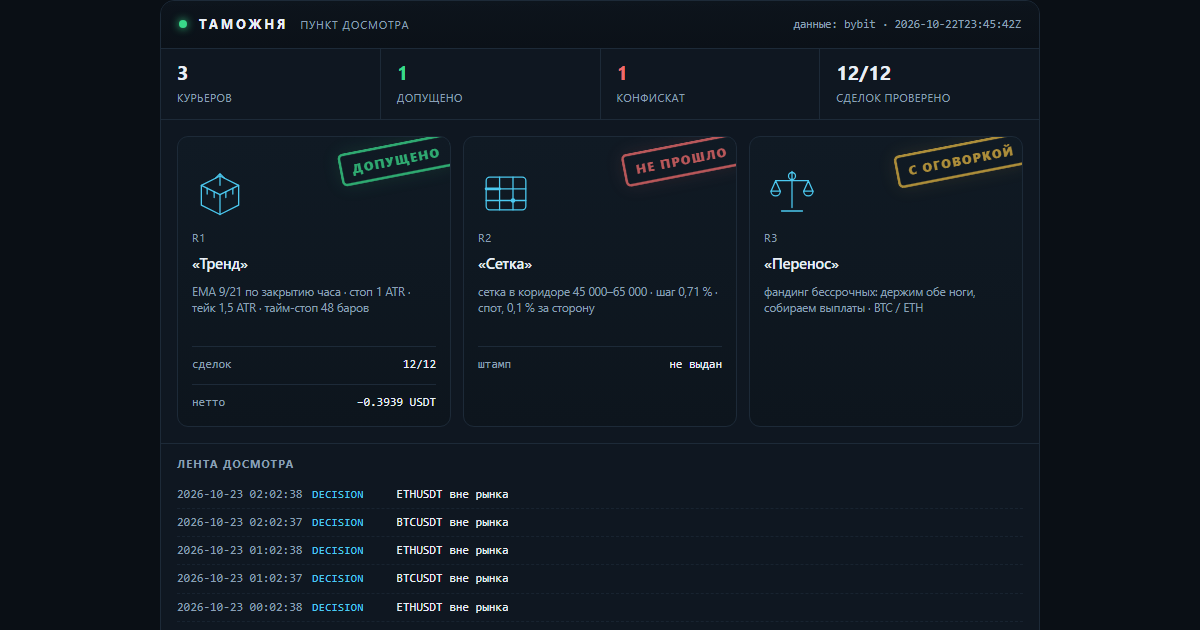
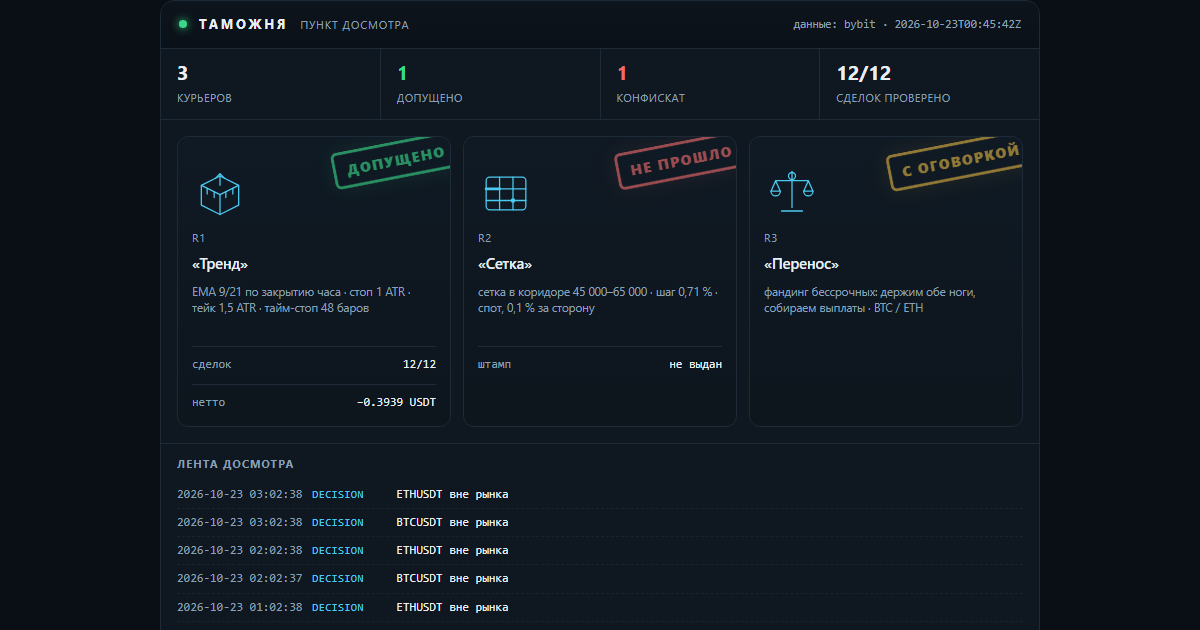
lab: таможня — свежие числа досмотра

diff --git a/docs/customs.html b/docs/customs.html
@@ -16,7 +16,7 @@
   <h1><a href="index.html">Gramwright Lab</a></h1>
   <p>Журнал проверки торговых гипотез: что проверяли, что вышло по факту, сколько съели издержки. Числа берутся из журнала стенда. Не инвестиционная рекомендация.</p>
 </header>
-<h1>Таможня</h1><p class="intro">Пункт досмотра заявленных результатов. Стратегии приезжают с грузом обещаний, и каждая проходит проверку по публичным данным биржи: цены существуют, комиссии по тарифу, нетто сходится. Что прошло — получает штамп. Что не прошло — в конфискат, с причиной. Штамп означает «записи подлинные», а не «стратегия прибыльна».</p><p><img src="img/customs.png" alt="Терминал досмотра: три курьера, штампы, лента событий" style="width:100%;height:auto;border:1px solid var(--line);border-radius:10px"></p><p class="c-note">Сверху — тот же терминал, что собирается из журналов: счётчики, эмблемы курьеров, штампы и лента последних событий. Ниже — то же самое текстом, чтобы читалось с телефона и индексировалось поиском.</p><article><h2>R1 «Тренд» <span class="verdict">— <span class="c-ok">допущено</span></span></h2><p><strong>Правило:</strong> EMA 9/21 по закрытию часа · стоп 1 ATR · тейк 1,5 ATR · тайм-стоп 48 баров</p><p><strong>Декларация:</strong> Заявлено до прогона: держать 30 сделок, лимит нотионала 10 % от счёта, стоп дня −1 %. Прибыль не заявлялась — это важно: курьер не обещал доход.</p><p><strong>Проверено по публичным свечам, без ключей:</strong> 12 из 12 сделок. Сумма нетто −0.3939 USDT.</p><ul class="c-chk"><li class="y">BTCUSDT: нетто −0.8746 USDT · комиссии 0.0901 · проверено · с поправкой</li><li class="y">BTCUSDT: нетто −0.5441 USDT · комиссии 0.0896 · проверено</li><li class="y">ETHUSDT: нетто −0.2253 USDT · комиссии 0.0266 · проверено</li><li class="y">ETHUSDT: нетто −0.1513 USDT · комиссии 0.0265 · проверено</li><li class="y">ETHUSDT: нетто +0.1984 USDT · комиссии 0.0262 · проверено</li><li class="y">ETHUSDT: нетто +0.1617 USDT · комиссии 0.0260 · проверено</li><li class="y">ETHUSDT: нетто +0.2645 USDT · комиссии 0.0263 · проверено</li><li class="y">BTCUSDT: нетто +0.6246 USDT · комиссии 0.0897 · проверено</li><li class="y">BTCUSDT: нетто −0.5881 USDT · комиссии 0.0910 · проверено</li><li class="y">ETHUSDT: нетто −0.2403 USDT · комиссии 0.0270 · проверено</li><li class="y">BTCUSDT: нетто +0.6908 USDT · комиссии 0.0908 · проверено</li><li class="y">ETHUSDT: нетто +0.2898 USDT · комиссии 0.0267 · проверено</li></ul><p class="tags">журнал sha256 0baa38762986cf78… · проверяльщик verify-1</p><p class="c-note">Штамп означает: записи подлинные, а не что стратегия прибыльна. Курьер в минусе, и минус тоже стоит на штампе — иначе это была бы не проверка, а реклама.</p><p class="tags">источник: verify-report.json</p></article><article><h2>R2 «Сетка» <span class="verdict">— <span class="c-bad">не прошло</span></span></h2><p><strong>Правило:</strong> сетка в коридоре 45 000–65 000 · шаг 0,71 % · спот, 0,1 % за сторону</p><p><strong>Декларация:</strong> Заявлено: «44 % урожая уходит бирже в виде комиссий». Кроме того — перевес над простым владением монетой.</p><p><strong>Что сошлось:</strong></p><ul class="c-chk"><li class="y">сами числа пересчитаны и воспроизводятся: коридор 45–65k был активен 23 % всей истории и 28 % последних двух лет</li></ul><p><strong>Что не сошлось:</strong></p><ul class="c-chk"><li class="n">44 % не подтвердилось: при шаге 0,71 % и тарифе 0,1 % комиссия съедает 28,3 % шага. Чтобы получить 44 %, нужен шаг 0,45 % — это около 80 уровней, а не 50</li><li class="n">от урожая доля комиссий 85,5 % за всю историю и 49,6 % за последние два года — тоже не 44 %</li><li class="n">перевес над владением посчитан на тарифе 0,055 %: при нём +1,32 п. п., на розничном 0,1 % — −0,72 п. п. То есть перевес исчезает</li><li class="n">семилетний тест стартовал в сентябре 2019 при биткоине около 10 000 — ниже коридора. Он говорит, что фиксированный коридор не подходит для периода, а не что сетка отстаёт</li></ul><p class="tags">источник: lab_grid.py, пересчёт 17.10.2026</p></article><article><h2>R3 «Перенос» <span class="verdict">— <span class="c-warn">с оговоркой</span></span></h2><p><strong>Правило:</strong> фандинг бессрочных: держим обе ноги, собираем выплаты · BTC / ETH</p><p><strong>Декларация:</strong> Заявлено: около 11,9 % в год от выплат фандинга при просадке выплатной кривой меньше 2 %.</p><p><strong>Что сошлось:</strong></p><ul class="c-chk"><li class="y">выплаты взяты из публичной истории биржи, ключей не нужно: BTC — 7 190 выплат с 25.03.2020, ETH — 6 561 с 21.10.2020</li><li class="y">сумма сходится: +83,4 % и +83,2 % за 6,6 и 6,0 года — те самые ~11,9 % в год</li><li class="y">худшая просадка выплатной кривой: −1,65 % и −1,97 %</li></ul><p><strong>Что не сошлось:</strong></p><ul class="c-chk"><li class="n">оговорка 1: премию сжали — 2021 год дал +38,3 %, 2026 — +1,96 %. Прошлое не повторяется</li><li class="n">оговорка 2: вход-выход стоит около 0,31 %, капитала нужно 1,2 от нотионала, текущий базис −0,082 % против входа</li><li class="n">оговорка 3: риск площадки. История FTX в этой же таблице выглядела так же прилично</li></ul><p class="tags">источник: публичная история фандинга Bybit, замер 17.10.2026</p></article><div class="c-conf"><h3>Конфискат</h3><p><strong>«Сетка»: заявленные 44 % комиссий не подтвердились.</strong> Досмотр показал 28,3 % от шага и 85,5 % от урожая — цифра хуже заявленной по форме, но лучше по смыслу: сетку убивает не размер шага, а то, что урожай почти весь уходит в комиссии. Это и вышло в выпуск — с поправкой, а не с красивой цифрой.</p></div><p class="c-note">Пломба: <code>2026-10-22T23:45:42Z</code> · нотариус FreeTSA · Oct 22 23:45:42 2026 GMT · подпись подтверждена. Манифест скрепляет отчёт проверки, журнал сделок и декларации курьеров: подменишь любую цифру — пломба перестанет сходиться.</p><p class="c-note">Досмотр идёт по публичным минутным свечам и публичной истории фандинга — ключей у проверяющего нет, и он может повторить проверку сам.</p><p class="c-note">Контент образовательный, не является инвестиционной рекомендацией. Торговля связана с риском потери капитала.</p>
+<h1>Таможня</h1><p class="intro">Пункт досмотра заявленных результатов. Стратегии приезжают с грузом обещаний, и каждая проходит проверку по публичным данным биржи: цены существуют, комиссии по тарифу, нетто сходится. Что прошло — получает штамп. Что не прошло — в конфискат, с причиной. Штамп означает «записи подлинные», а не «стратегия прибыльна».</p><p><img src="img/customs.png" alt="Терминал досмотра: три курьера, штампы, лента событий" style="width:100%;height:auto;border:1px solid var(--line);border-radius:10px"></p><p class="c-note">Сверху — тот же терминал, что собирается из журналов: счётчики, эмблемы курьеров, штампы и лента последних событий. Ниже — то же самое текстом, чтобы читалось с телефона и индексировалось поиском.</p><article><h2>R1 «Тренд» <span class="verdict">— <span class="c-ok">допущено</span></span></h2><p><strong>Правило:</strong> EMA 9/21 по закрытию часа · стоп 1 ATR · тейк 1,5 ATR · тайм-стоп 48 баров</p><p><strong>Декларация:</strong> Заявлено до прогона: держать 30 сделок, лимит нотионала 10 % от счёта, стоп дня −1 %. Прибыль не заявлялась — это важно: курьер не обещал доход.</p><p><strong>Проверено по публичным свечам, без ключей:</strong> 12 из 12 сделок. Сумма нетто −0.3939 USDT.</p><ul class="c-chk"><li class="y">BTCUSDT: нетто −0.8746 USDT · комиссии 0.0901 · проверено · с поправкой</li><li class="y">BTCUSDT: нетто −0.5441 USDT · комиссии 0.0896 · проверено</li><li class="y">ETHUSDT: нетто −0.2253 USDT · комиссии 0.0266 · проверено</li><li class="y">ETHUSDT: нетто −0.1513 USDT · комиссии 0.0265 · проверено</li><li class="y">ETHUSDT: нетто +0.1984 USDT · комиссии 0.0262 · проверено</li><li class="y">ETHUSDT: нетто +0.1617 USDT · комиссии 0.0260 · проверено</li><li class="y">ETHUSDT: нетто +0.2645 USDT · комиссии 0.0263 · проверено</li><li class="y">BTCUSDT: нетто +0.6246 USDT · комиссии 0.0897 · проверено</li><li class="y">BTCUSDT: нетто −0.5881 USDT · комиссии 0.0910 · проверено</li><li class="y">ETHUSDT: нетто −0.2403 USDT · комиссии 0.0270 · проверено</li><li class="y">BTCUSDT: нетто +0.6908 USDT · комиссии 0.0908 · проверено</li><li class="y">ETHUSDT: нетто +0.2898 USDT · комиссии 0.0267 · проверено</li></ul><p class="tags">журнал sha256 fc588497364d91ff… · проверяльщик verify-1</p><p class="c-note">Штамп означает: записи подлинные, а не что стратегия прибыльна. Курьер в минусе, и минус тоже стоит на штампе — иначе это была бы не проверка, а реклама.</p><p class="tags">источник: verify-report.json</p></article><article><h2>R2 «Сетка» <span class="verdict">— <span class="c-bad">не прошло</span></span></h2><p><strong>Правило:</strong> сетка в коридоре 45 000–65 000 · шаг 0,71 % · спот, 0,1 % за сторону</p><p><strong>Декларация:</strong> Заявлено: «44 % урожая уходит бирже в виде комиссий». Кроме того — перевес над простым владением монетой.</p><p><strong>Что сошлось:</strong></p><ul class="c-chk"><li class="y">сами числа пересчитаны и воспроизводятся: коридор 45–65k был активен 23 % всей истории и 28 % последних двух лет</li></ul><p><strong>Что не сошлось:</strong></p><ul class="c-chk"><li class="n">44 % не подтвердилось: при шаге 0,71 % и тарифе 0,1 % комиссия съедает 28,3 % шага. Чтобы получить 44 %, нужен шаг 0,45 % — это около 80 уровней, а не 50</li><li class="n">от урожая доля комиссий 85,5 % за всю историю и 49,6 % за последние два года — тоже не 44 %</li><li class="n">перевес над владением посчитан на тарифе 0,055 %: при нём +1,32 п. п., на розничном 0,1 % — −0,72 п. п. То есть перевес исчезает</li><li class="n">семилетний тест стартовал в сентябре 2019 при биткоине около 10 000 — ниже коридора. Он говорит, что фиксированный коридор не подходит для периода, а не что сетка отстаёт</li></ul><p class="tags">источник: lab_grid.py, пересчёт 17.10.2026</p></article><article><h2>R3 «Перенос» <span class="verdict">— <span class="c-warn">с оговоркой</span></span></h2><p><strong>Правило:</strong> фандинг бессрочных: держим обе ноги, собираем выплаты · BTC / ETH</p><p><strong>Декларация:</strong> Заявлено: около 11,9 % в год от выплат фандинга при просадке выплатной кривой меньше 2 %.</p><p><strong>Что сошлось:</strong></p><ul class="c-chk"><li class="y">выплаты взяты из публичной истории биржи, ключей не нужно: BTC — 7 190 выплат с 25.03.2020, ETH — 6 561 с 21.10.2020</li><li class="y">сумма сходится: +83,4 % и +83,2 % за 6,6 и 6,0 года — те самые ~11,9 % в год</li><li class="y">худшая просадка выплатной кривой: −1,65 % и −1,97 %</li></ul><p><strong>Что не сошлось:</strong></p><ul class="c-chk"><li class="n">оговорка 1: премию сжали — 2021 год дал +38,3 %, 2026 — +1,96 %. Прошлое не повторяется</li><li class="n">оговорка 2: вход-выход стоит около 0,31 %, капитала нужно 1,2 от нотионала, текущий базис −0,082 % против входа</li><li class="n">оговорка 3: риск площадки. История FTX в этой же таблице выглядела так же прилично</li></ul><p class="tags">источник: публичная история фандинга Bybit, замер 17.10.2026</p></article><div class="c-conf"><h3>Конфискат</h3><p><strong>«Сетка»: заявленные 44 % комиссий не подтвердились.</strong> Досмотр показал 28,3 % от шага и 85,5 % от урожая — цифра хуже заявленной по форме, но лучше по смыслу: сетку убивает не размер шага, а то, что урожай почти весь уходит в комиссии. Это и вышло в выпуск — с поправкой, а не с красивой цифрой.</p></div><p class="c-note">Пломба: <code>2026-10-23T00:45:42Z</code> · нотариус FreeTSA · Oct 23 00:45:42 2026 GMT · подпись подтверждена. Манифест скрепляет отчёт проверки, журнал сделок и декларации курьеров: подменишь любую цифру — пломба перестанет сходиться.</p><p class="c-note">Досмотр идёт по публичным минутным свечам и публичной истории фандинга — ключей у проверяющего нет, и он может повторить проверку сам.</p><p class="c-note">Контент образовательный, не является инвестиционной рекомендацией. Торговля связана с риском потери капитала.</p>
 <footer class="site">
   Код стенда и аудитора: <a href="https://github.com/XSlaidx/truth-engine">XSlaidx/truth-engine</a>
   &middot; <a href="graveyard.html">кладбище правил</a>
